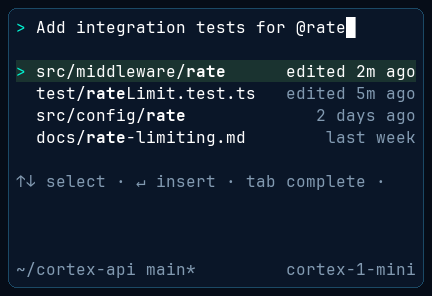
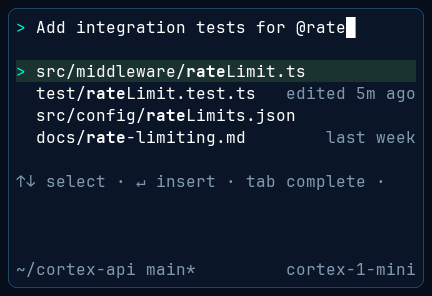
fix(tui): keep full filenames in the narrow file picker

diff --git a/src/cortex-tui/src/lock_boards.rs b/src/cortex-tui/src/lock_boards.rs
@@ -1249,8 +1249,15 @@ fn board_files(area: Rect, buf: &mut Buffer) {
         if y >= area.bottom().saturating_sub(3) {
             break;
         }
+        // The full filename always wins: when the row cannot hold both, the
+        // timestamp is dropped rather than ever cutting inside the name.
         let when_fit = first_fitting_line(when, 16);
-        let path_budget = w.saturating_sub(when_fit.chars().count() + 4);
+        let show_when = 2 + path.chars().count() + 2 + when_fit.chars().count() <= w;
+        let path_budget = if show_when {
+            w.saturating_sub(when_fit.chars().count() + 4)
+        } else {
+            w.saturating_sub(2)
+        };
         if selected {
             fill_row(buf, area, y, SELECTION_BG);
         }
@@ -1278,16 +1285,18 @@ fn board_files(area: Rect, buf: &mut Buffer) {
             x = x.saturating_add(take.chars().count() as u16);
             used += take.chars().count();
         }
-        let rx = area
-            .right()
-            .saturating_sub(when_fit.chars().count() as u16)
-            .max(x.saturating_add(1));
-        let when_style = if selected {
-            Style::default().fg(TEXT).bg(SELECTION_BG)
-        } else {
-            Style::default().fg(TEXT_DIM)
-        };
-        buf.set_string(rx, y, &when_fit, when_style);
+        if show_when {
+            let rx = area
+                .right()
+                .saturating_sub(when_fit.chars().count() as u16)
+                .max(x.saturating_add(1));
+            let when_style = if selected {
+                Style::default().fg(TEXT).bg(SELECTION_BG)
+            } else {
+                Style::default().fg(TEXT_DIM)
+            };
+            buf.set_string(rx, y, &when_fit, when_style);
+        }
         y += 1;
     }
     y += 1;

diff --git a/src/cortex-tui/src/lock_proof.rs b/src/cortex-tui/src/lock_proof.rs
@@ -1166,6 +1166,25 @@ mod tests {
             }
         }
 
+        // 23 @files never cuts inside a filename: at 40 columns the full
+        // names win and the timestamp is dropped where both cannot fit.
+        let files_n = render_lock_scene("files", 40, 12).expect("files narrow");
+        assert!(
+            files_n.plain.contains("src/middleware/rateLimit.ts"),
+            "full filename required:\n{}",
+            files_n.plain
+        );
+        assert!(
+            files_n.plain.contains("src/config/rateLimits.json"),
+            "full filename required:\n{}",
+            files_n.plain
+        );
+        assert!(
+            !files_n.plain.contains("rateLimit.ts  edited"),
+            "the cramped timestamp must be dropped:\n{}",
+            files_n.plain
+        );
+
         let ask = render_lock_scene("ask", 120, 40).expect("ask");
         assert!(ask.plain.contains("Ask — read-only") || ask.plain.contains("read-only"));
         assert!(ask.plain.contains("estimateTokens") || ask.plain.contains("src/lib/tokens.ts"));
